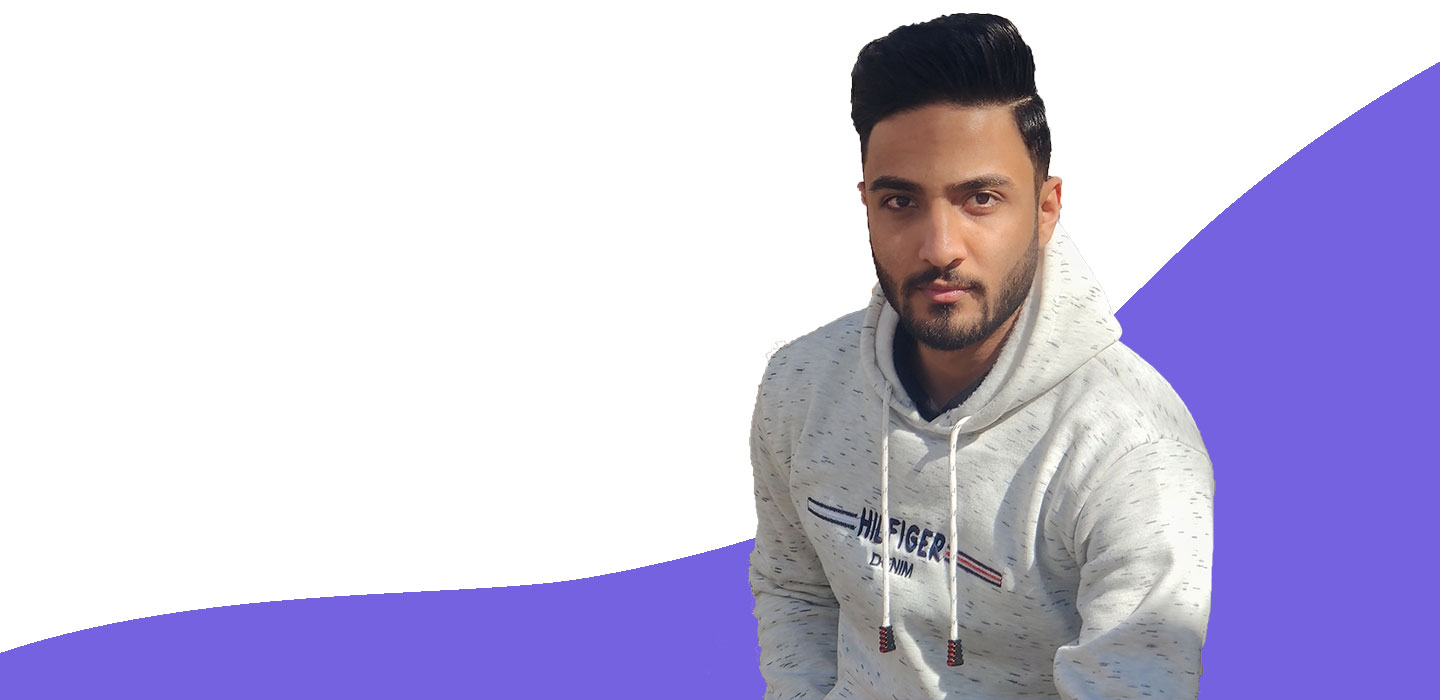
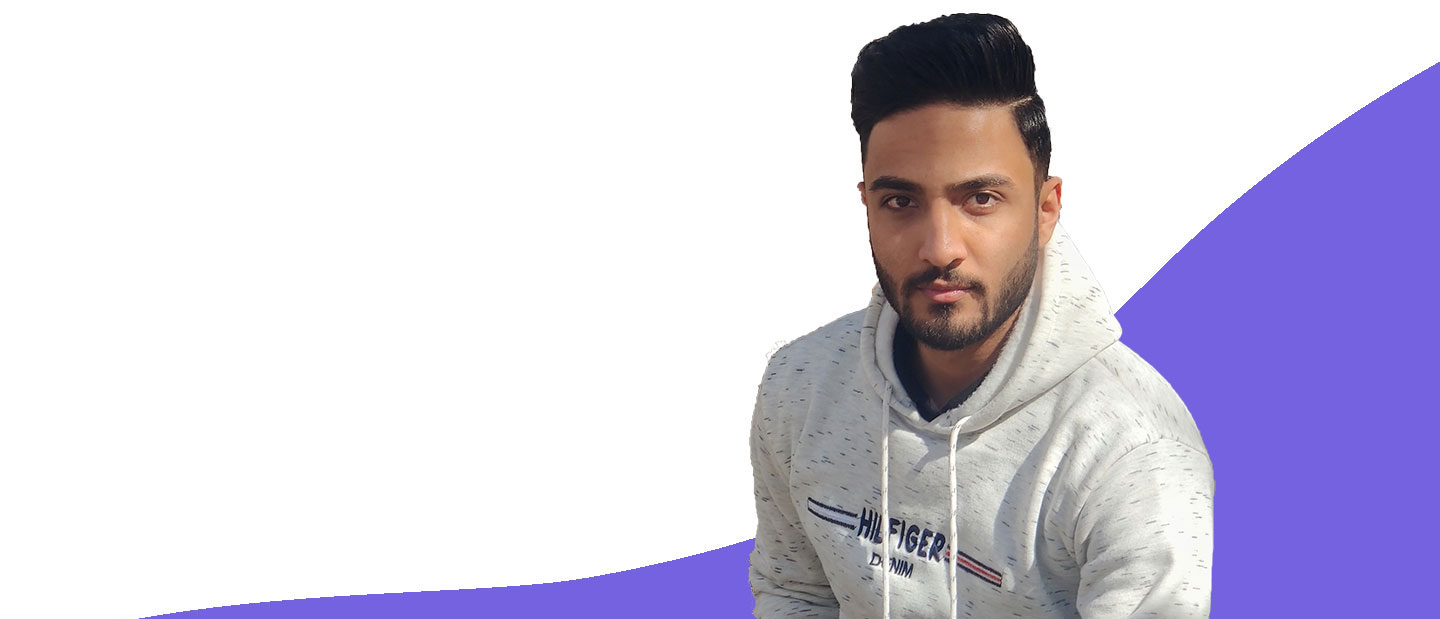
fixing hero block.

diff --git a/index.html b/index.html
@@ -15,7 +15,9 @@
   <body>
     <!-- Navigation bar -->
     <nav class="navbar collapsible">
-      <img class="navbar__logo" src="images/logo.png" alt="smohammadhn logo" />
+      <a class="navbar__logo" href="https://smohammadhn.com/"
+        ><img src="images/logo.png" alt="smohammadhn logo"
+      /></a>
       <img class="navbar__menu" src="images/menu.svg" alt="" />
       <ul class="list collapsible__content">
         <li class="list-item"><a href="#">Contact me</a></li>
@@ -24,7 +26,7 @@
       </ul>
     </nav>
     <!-- Hero BLock -->
-    <div class="hero">
+    <div class="hero block-sckewed-left">
       <picture>
         <source media="(max-width: 767px)" srcset="images/Banner-mobile.jpg" />
         <source media="(min-width: 768px)" srcset="images/Banner.jpg" />

diff --git a/css/styles.css b/css/styles.css
@@ -85,7 +85,6 @@ a {
 }
 .list-inline .list-item {
   display: inline-block;
-  margin-left: 3rem;
 }
 /* --------------- Buttons --------------- */
 .btn {
@@ -119,6 +118,10 @@ a {
   width: 1210px;
   margin: 0 auto 3rem;
 }
+.block-sckewed-left {
+  clip-path: polygon(0% 0%, 100% 0%, 100% 95%, 0% 100%);
+}
+
 /* --------------- Grids --------------- */
 .grid {
   display: grid;
